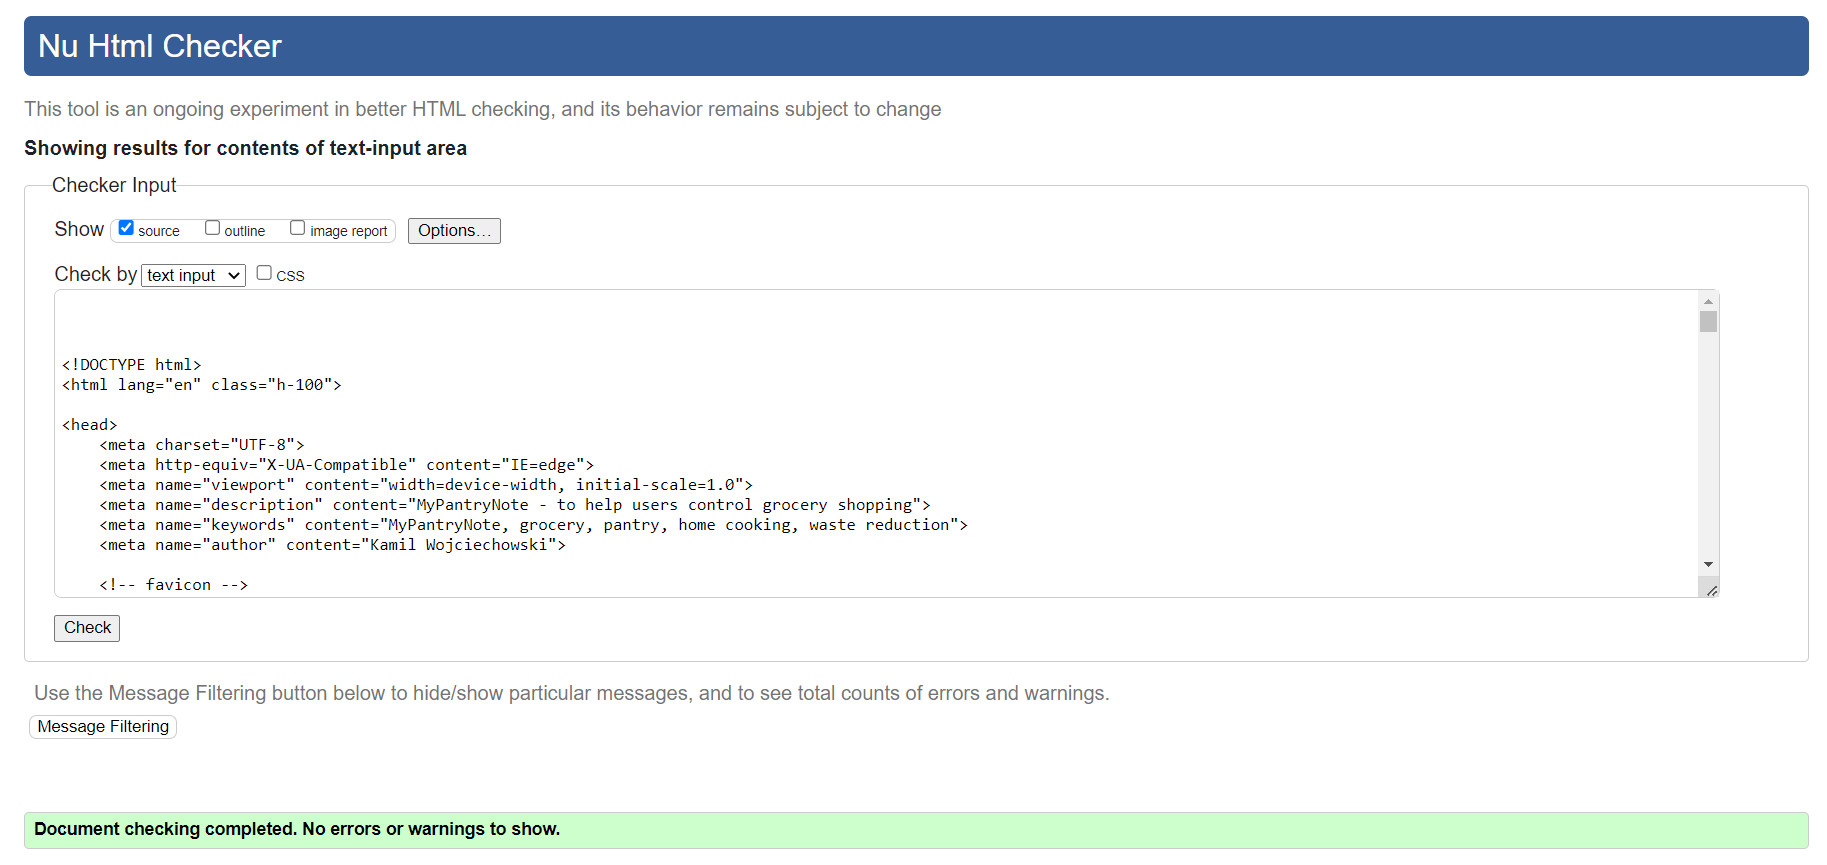
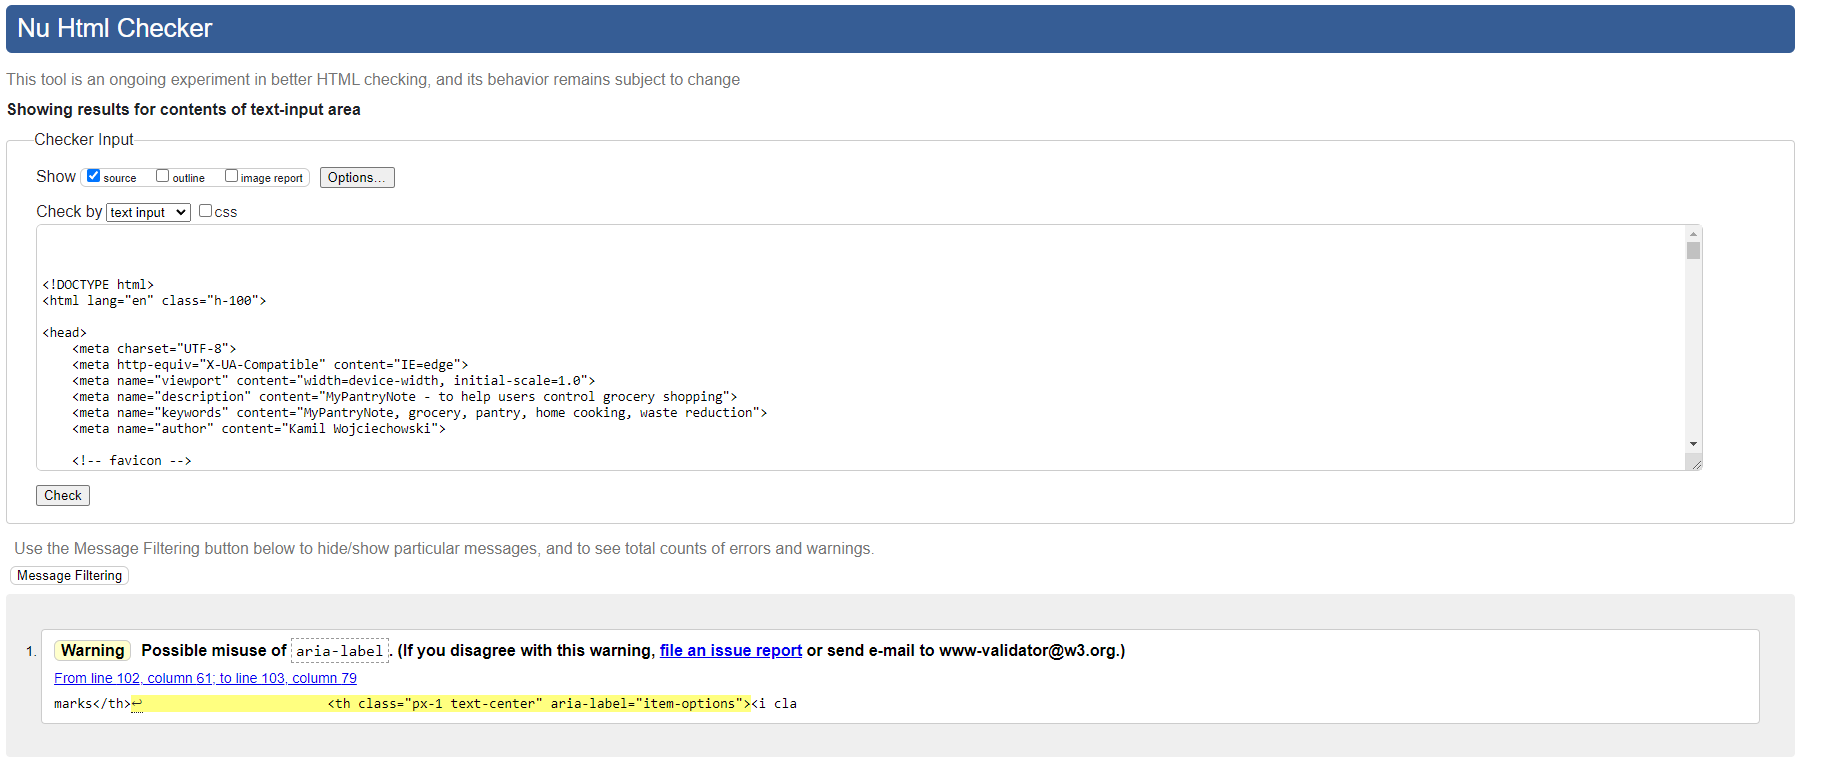
Update README.md file

diff --git a/README.md b/README.md
@@ -477,7 +477,9 @@ On Admin Panel, admin/ superuser has full access to CRUD functionality to contro
 - spaces
 ![HTML Validation](docs/validation/html/html-spaces.png)
 - items
+Warning of possible misuse of aria-label: aria-label added to fix an accessibility error "Empty table header"
 ![HTML Validation](docs/validation/html/html-items.png)
+![HTML Validation](docs/validation/html/html-items-accessibility.png)
 - add_storage
 ![HTML Validation](docs/validation/html/html-add-storage.png)
 - edit_storage
@@ -746,6 +748,7 @@ Following browsers were used to test the website:
 | Heroku error during the early deployment: "Failed building wheel for backports.zoneinfo" |  Edit requirements.txt file. update backports from backports.zoneinfo==0.2.1 to
 backports.zoneinfo==0.2.1;python_version<"3.9" |
 | Continuation line under-indented for visual indent (E128) | Check best practice on Flake8 Rules |
+| Accessibility error: Empty table header | Add aria-label "Settings column" to th element |
 
 [Back to Table Of Contents](#table-of-contents)
 
